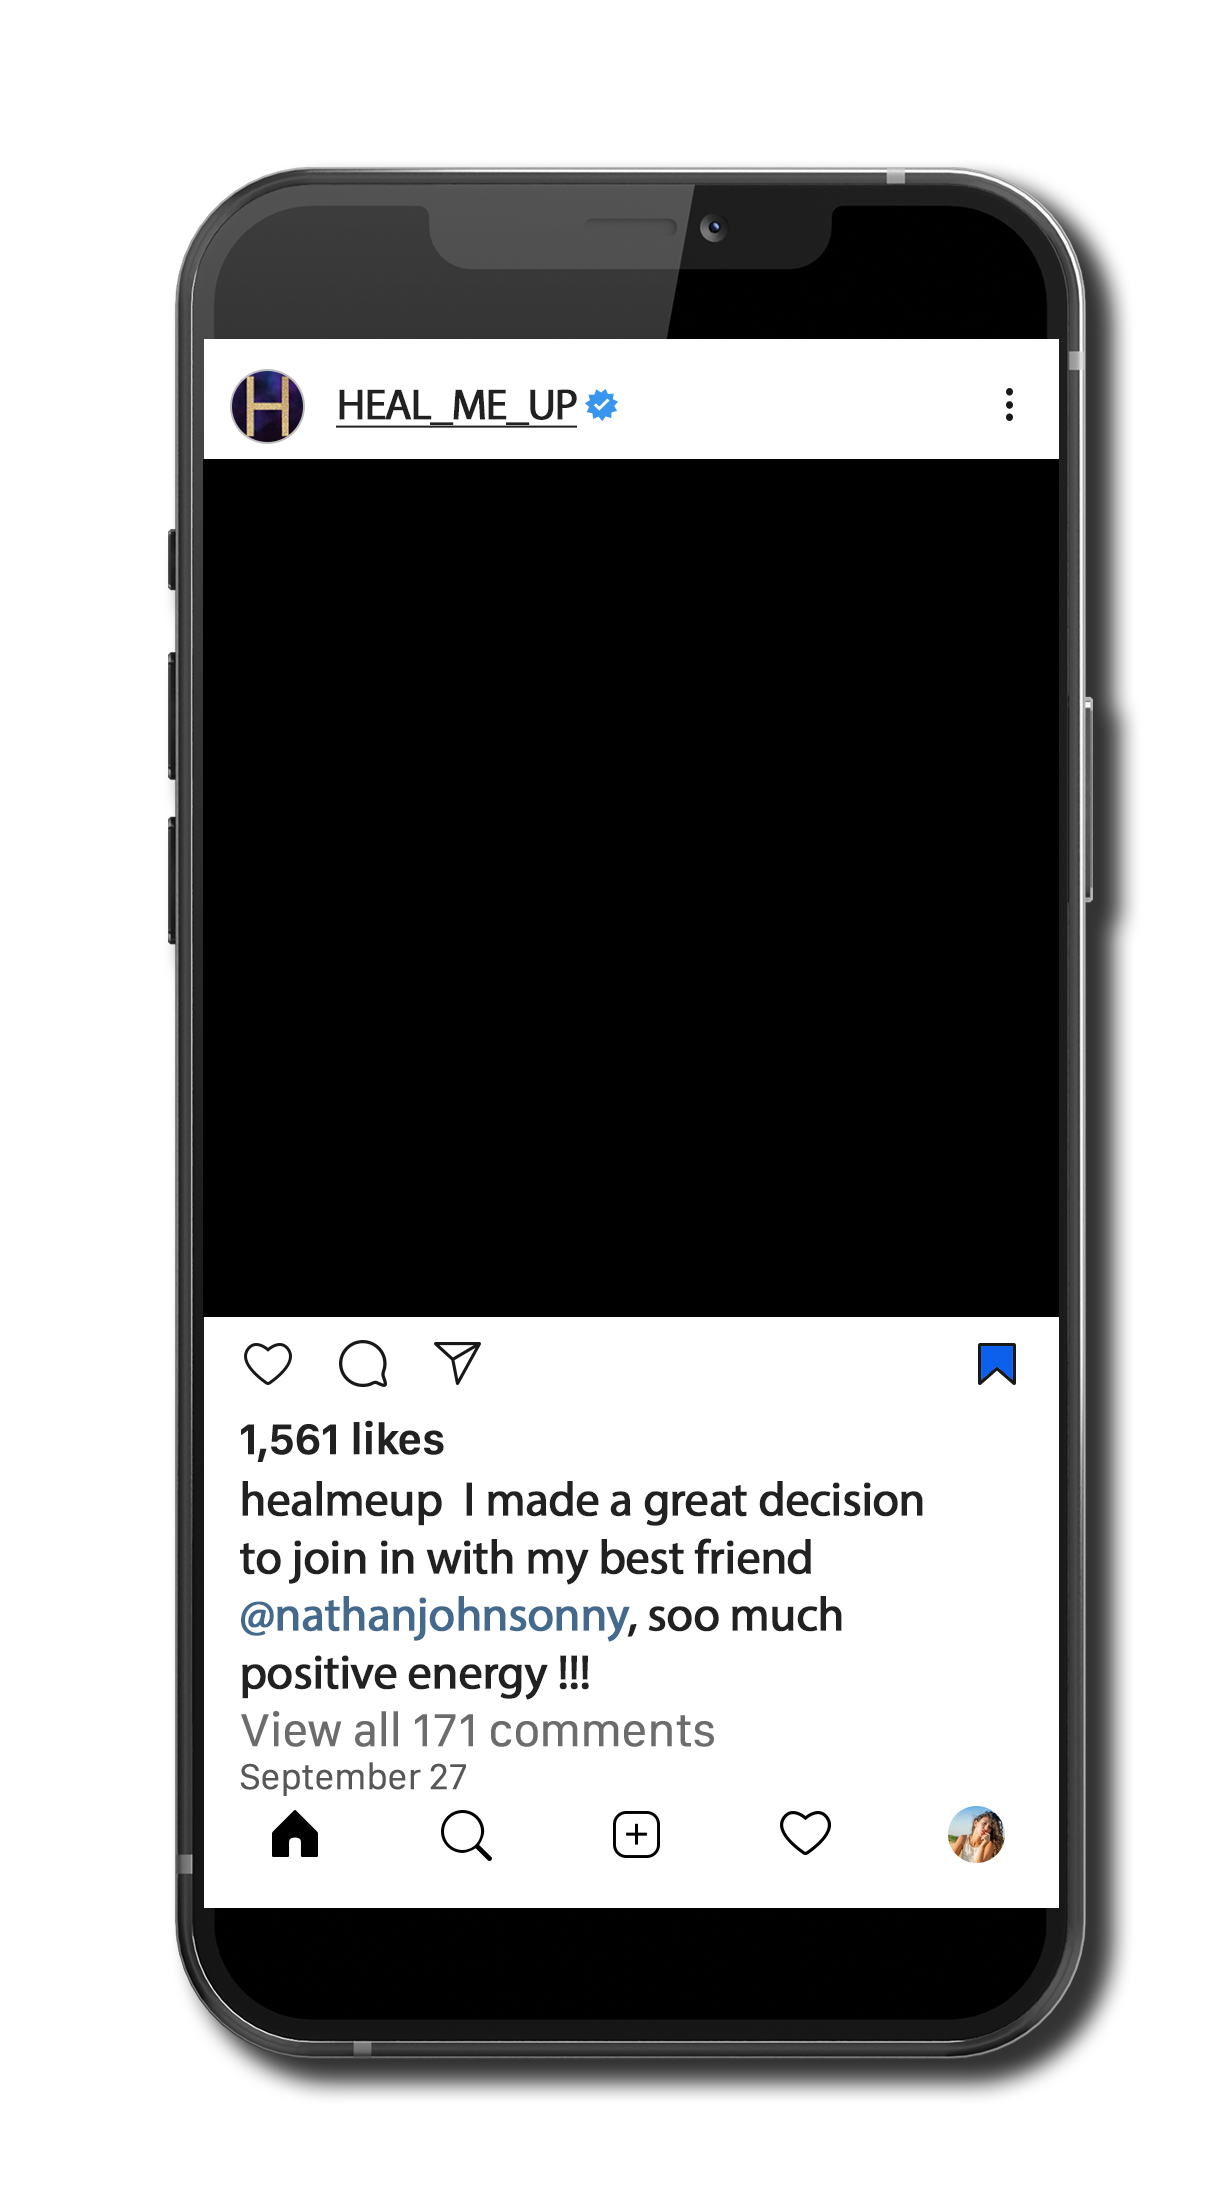
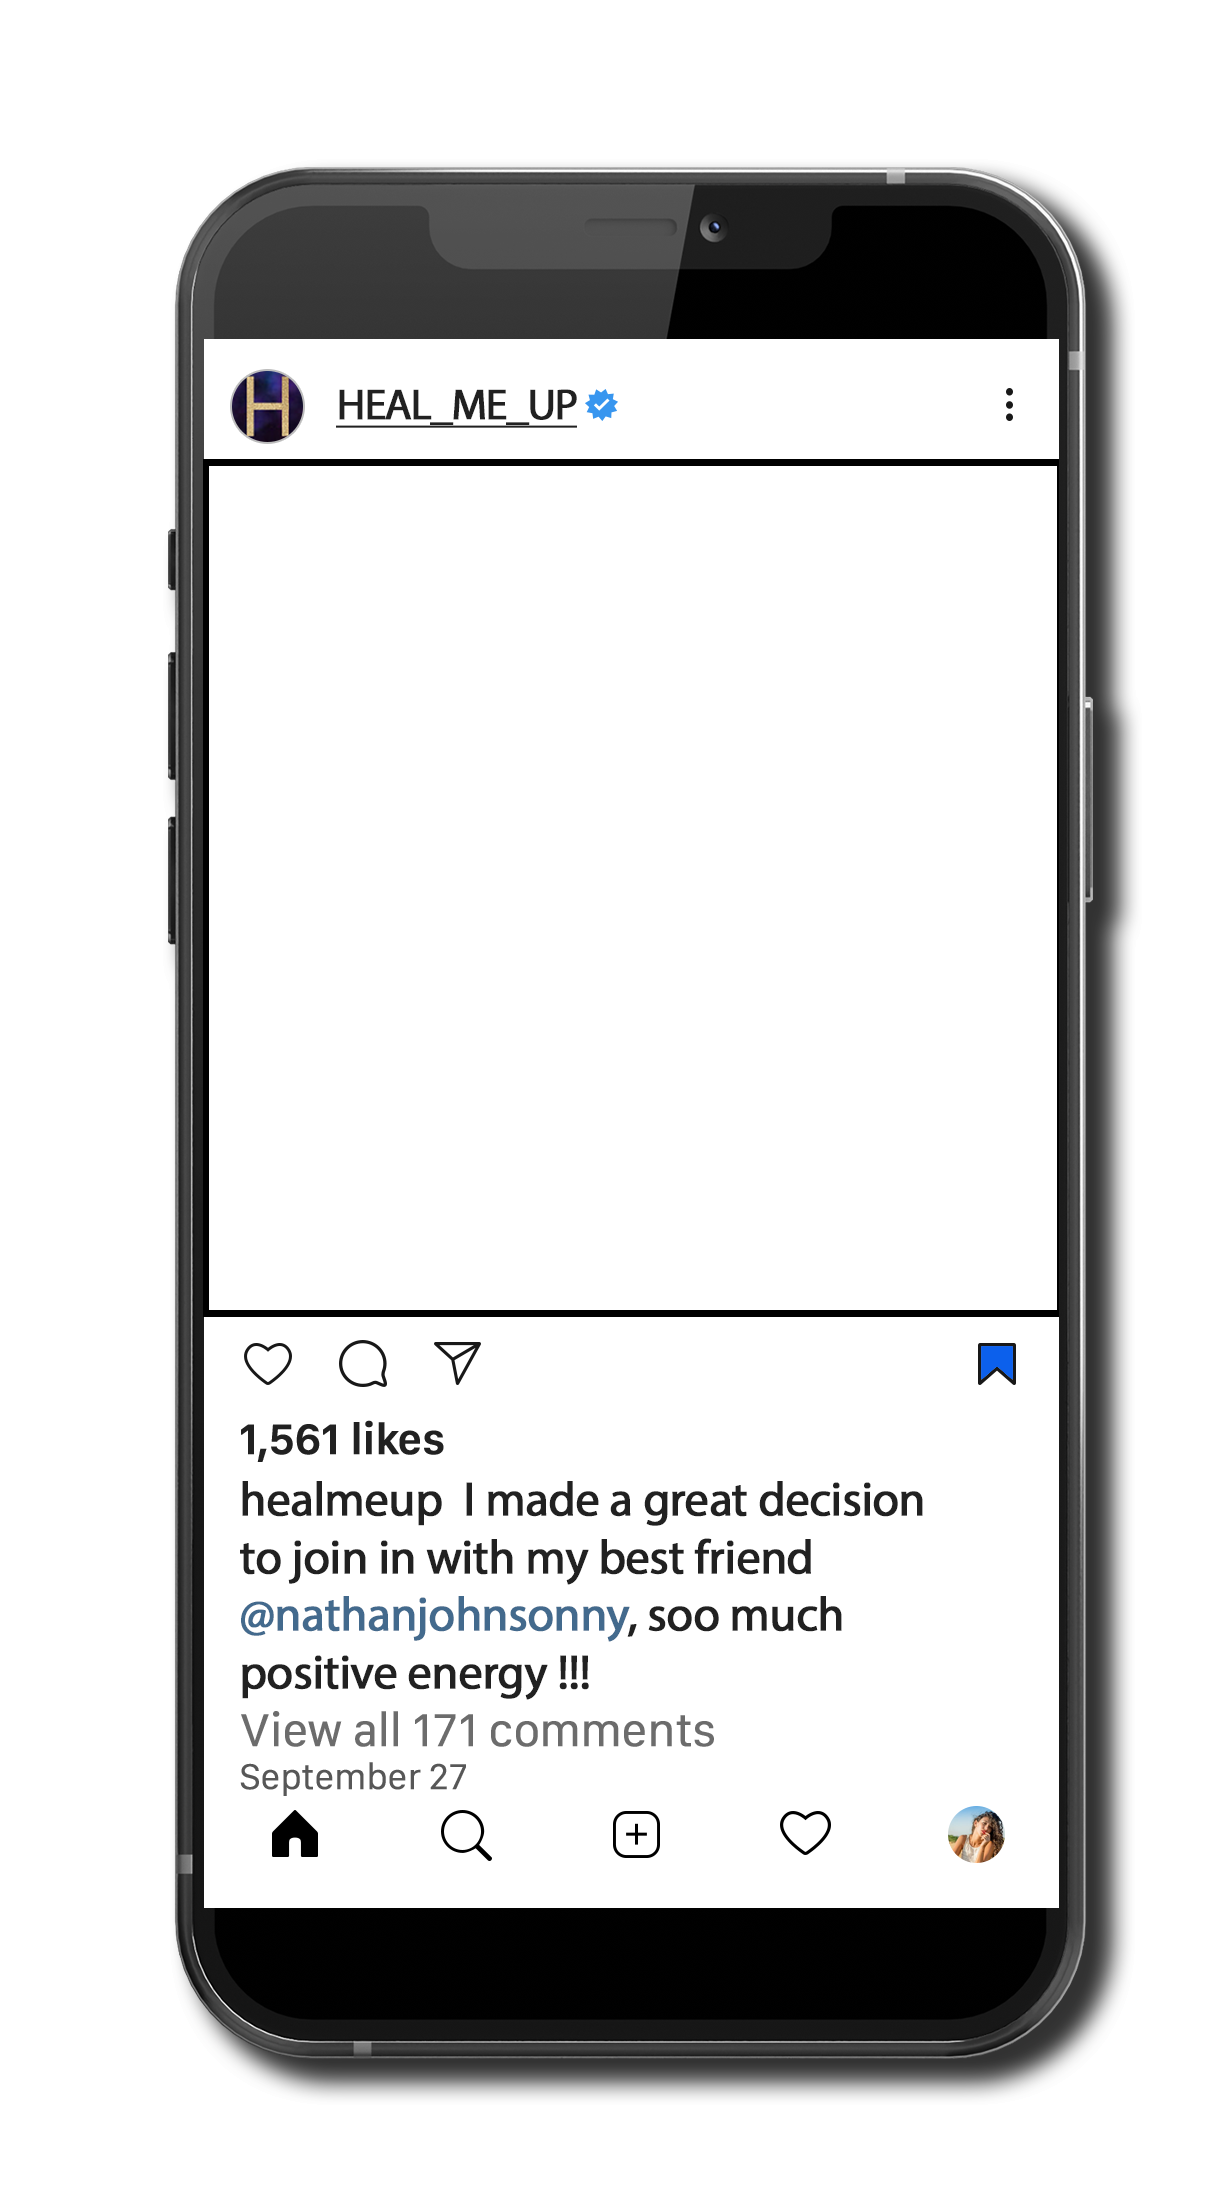
hmup_update

Changed region(s): [[0.1543, 0.1855, 0.8643, 0.6182]]

diff --git a/HMUP.html b/HMUP.html
@@ -13,10 +13,6 @@
 <meta name="authoring-tool" content="Adobe_Animate_CC">
 <title>HMUP</title>
 <!-- write your code here -->
-
-
-
-
 <style>
   #animation_container {
 	position:absolute;
@@ -108,7 +104,7 @@ if (reversed == null) { reversed = false; }
 	props.loop = loop;
 	props.reversed = reversed;
 	cjs.MovieClip.apply(this,[props]);
-	// Calque_1
+	// Calque_3
 	this.instance = new lib.phone_mockup();
 	this.instance.setTransform(-139.9,-250,0.2273,0.2273);
 	this.timeline.addTween(cjs.Tween.get(this.instance).wait(1));
@@ -179,7 +175,7 @@ if (reversed == null) { reversed = false; }
 	props.reversed = reversed;
 	cjs.MovieClip.apply(this,[props]);
 	// Calque_1
-	this.text = new cjs.Text("RETOUR", "bold 60px 'Myriad Pro'", "#FFFFFF");
+	this.text = new cjs.Text("RETOUR", "60px 'Arial'", "#FFFFFF");
 	this.text.lineHeight = 71;
 	this.text.lineWidth = 230;
 	this.text.parent = this;
@@ -187,7 +183,7 @@ if (reversed == null) { reversed = false; }
 	this.timeline.addTween(cjs.Tween.get(this.text).wait(1));
 	this._renderFirstFrame();
 }).prototype = p = new cjs.MovieClip();
-p.nominalBounds = new cjs.Rectangle(-117.2,-36.4,234.4,72.8);
+p.nominalBounds = new cjs.Rectangle(-117.2,-36.4,234.4,140);
 (lib.Interpoler3 = function(mode,startPosition,loop,reversed) {
 if (loop == null) { loop = true; }
 if (reversed == null) { reversed = false; }
@@ -199,7 +195,7 @@ if (reversed == null) { reversed = false; }
 	props.reversed = reversed;
 	cjs.MovieClip.apply(this,[props]);
 	// Calque_1
-	this.text = new cjs.Text("RETOUR", "bold 60px 'Myriad Pro'", "#FFFFFF");
+	this.text = new cjs.Text("RETOUR", "60px 'Arial'", "#FFFFFF");
 	this.text.lineHeight = 71;
 	this.text.lineWidth = 230;
 	this.text.parent = this;
@@ -207,7 +203,7 @@ if (reversed == null) { reversed = false; }
 	this.timeline.addTween(cjs.Tween.get(this.text).wait(1));
 	this._renderFirstFrame();
 }).prototype = p = new cjs.MovieClip();
-p.nominalBounds = new cjs.Rectangle(-117.2,-36.4,234.4,72.8);
+p.nominalBounds = new cjs.Rectangle(-117.2,-36.4,234.4,140);
 (lib.Interpoler2 = function(mode,startPosition,loop,reversed) {
 if (loop == null) { loop = true; }
 if (reversed == null) { reversed = false; }
@@ -687,7 +683,7 @@ if (reversed == null) { reversed = false; }
 	this.filterCacheList.push({instance: this.instance_4, startFrame:20, endFrame:39, x:-22, y:-22, w:44, h:44});
 	this._renderFirstFrame();
 }).prototype = p = new cjs.MovieClip();
-p.nominalBounds = new cjs.Rectangle(-397.3,-62.1,780.3,117.9);
+p.nominalBounds = new cjs.Rectangle(-397.3,-62.1,780.3,172);
 // stage content:
 (lib.PHMUP = function(mode,startPosition,loop,reversed) {
 if (loop == null) { loop = true; }
@@ -779,44 +775,6 @@ if (reversed == null) { reversed = false; }
 	this.timeline.addTween(cjs.Tween.get({}).to({state:[{t:this.nextButton},{t:this.prevButton}]}).wait(180));
 	this.prevButton.addEventListener("tick", AdobeAn.handleFilterCache);
 	this.nextButton.addEventListener("tick", AdobeAn.handleFilterCache);
-	// hmup_01
-	this.instance = new lib.hmup_01();
-	this.instance.setTransform(484,185.7,1.3008,1.2974);
-	this.timeline.addTween(cjs.Tween.get(this.instance).to({regX:0.2,scaleX:0.9216,scaleY:0.9192,x:157.55,y:185.35,alpha:0.5},29,cjs.Ease.quadInOut).to({scaleX:0.3861,scaleY:0.3851,x:117.6,alpha:0},30,cjs.Ease.quadInOut).to({_off:true},1).wait(120));
-	// hmup_02
-	this.instance_1 = new lib.hmup_02();
-	this.instance_1.setTransform(802.65,185.95,0.723,0.723);
-	this.instance_1.alpha = 0.5;
-	this.timeline.addTween(cjs.Tween.get(this.instance_1).to({scaleX:1,scaleY:1,x:484,y:185.7,alpha:1},29,cjs.Ease.quadInOut).to({scaleX:0.7109,scaleY:0.7109,x:157.6,y:185.75,alpha:0.5},30,cjs.Ease.quadInOut).to({regY:0.1,scaleX:0.2973,scaleY:0.2973,x:116.6,y:186.75,alpha:0},30,cjs.Ease.quadInOut).to({_off:true},1).wait(90));
-	// hmup_03
-	this.instance_2 = new lib.hmup_03();
-	this.instance_2.setTransform(844.15,185.5,0.2974,0.2974,0,0,0,0,0.1);
-	this.instance_2.alpha = 0;
-	this.timeline.addTween(cjs.Tween.get(this.instance_2).to({regX:0.1,regY:0.2,scaleX:0.7077,scaleY:0.7077,x:804.2,y:185.55,alpha:0.5},29,cjs.Ease.quadInOut).to({scaleX:1,scaleY:1,x:484.15,alpha:1},30,cjs.Ease.quadInOut).to({regY:0.3,scaleX:0.7077,scaleY:0.7077,x:156.65,y:186.5,alpha:0.5},30,cjs.Ease.quadInOut).to({regY:0.4,scaleX:0.2974,scaleY:0.2974,x:116.6,y:185.4,alpha:0},30,cjs.Ease.quadInOut).to({_off:true},1).wait(60));
-	// hmup_04
-	this.instance_3 = new lib.hmup_04();
-	this.instance_3.setTransform(844.15,185.75,0.2974,0.2974);
-	this.instance_3.alpha = 0;
-	this.instance_3._off = true;
-	this.timeline.addTween(cjs.Tween.get(this.instance_3).wait(29).to({_off:false},0).to({scaleX:0.7077,scaleY:0.7077,x:804.15,y:185.4,alpha:0.5},30,cjs.Ease.quadInOut).to({regX:0.1,regY:0.1,scaleX:1,scaleY:1,x:484.1,y:186.4,alpha:1},30,cjs.Ease.quadInOut).to({scaleX:0.7077,scaleY:0.7077,x:156.6,y:185.35,alpha:0.5},30,cjs.Ease.quadInOut).to({scaleX:0.2974,scaleY:0.2974,x:117.55,alpha:0},30,cjs.Ease.quadInOut).to({_off:true},1).wait(30));
-	// hmup_05
-	this.instance_4 = new lib.hmup_05();
-	this.instance_4.setTransform(844.2,185.3,0.2974,0.2974,0,0,0,0.1,0.1);
-	this.instance_4.alpha = 0;
-	this.instance_4._off = true;
-	this.timeline.addTween(cjs.Tween.get(this.instance_4).wait(59).to({_off:false},0).to({regX:0.2,regY:0.2,scaleX:0.7077,scaleY:0.7077,x:804.3,y:186.4,alpha:0.5},30,cjs.Ease.quadInOut).to({scaleX:0.9999,scaleY:0.9999,x:484.2,y:185.4,alpha:1},30,cjs.Ease.quadInOut).to({regX:0.3,regY:0.3,scaleX:0.7077,scaleY:0.7077,x:157.7,y:185.35,alpha:0.5},30,cjs.Ease.quadInOut).to({regX:0.5,regY:0.5,scaleX:0.2974,scaleY:0.2974,x:116.6,y:185.25,alpha:0},30,cjs.Ease.quadInOut).wait(1));
-	// hmup_06
-	this.instance_5 = new lib.hmup_06();
-	this.instance_5.setTransform(844.2,186.7,0.2974,0.2974,0,0,0,0.1,0);
-	this.instance_5.alpha = 0;
-	this.instance_5._off = true;
-	this.timeline.addTween(cjs.Tween.get(this.instance_5).wait(89).to({_off:false},0).to({regX:0.2,regY:0.1,scaleX:0.7077,scaleY:0.7077,x:804.3,y:185.35,alpha:0.5},30,cjs.Ease.quadInOut).to({scaleX:1,scaleY:1,x:484.2,y:185.4,alpha:1},30,cjs.Ease.quadInOut).to({regX:0.3,scaleX:0.7077,scaleY:0.7077,x:156.65,y:185.2,alpha:0.5},30,cjs.Ease.quadInOut).wait(1));
-	// hmup_07
-	this.instance_6 = new lib.hmup_07();
-	this.instance_6.setTransform(844.15,185.35,0.2974,0.2974,0,0,0,0,0.1);
-	this.instance_6.alpha = 0;
-	this.instance_6._off = true;
-	this.timeline.addTween(cjs.Tween.get(this.instance_6).wait(119).to({_off:false},0).to({regX:0.1,regY:0.2,scaleX:0.7077,scaleY:0.7077,x:804.2,y:185.3,alpha:0.5},30,cjs.Ease.quadInOut).to({scaleX:1,scaleY:1,x:484.1,alpha:1},30,cjs.Ease.quadInOut).wait(1));
 	// back_btn_anim
 	this.back_btn_anim = new lib.back_btn_anim();
 	this.back_btn_anim.name = "back_btn_anim";
@@ -824,9 +782,52 @@ if (reversed == null) { reversed = false; }
 	this.timeline.addTween(cjs.Tween.get(this.back_btn_anim).wait(180));
 	this.back_btn_anim.addEventListener("tick", AdobeAn.handleFilterCache);
 	// phone_mockup
-	this.instance_7 = new lib.phone_mockup_1();
-	this.instance_7.setTransform(480,234);
-	this.timeline.addTween(cjs.Tween.get(this.instance_7).wait(180));
+	this.instance = new lib.phone_mockup_1();
+	this.instance.setTransform(480,234);
+	this.timeline.addTween(cjs.Tween.get(this.instance).wait(180));
+	// hmup_01
+	this.instance_1 = new lib.hmup_01();
+	this.instance_1.setTransform(484,185.7,1.3008,1.2974);
+	this.timeline.addTween(cjs.Tween.get(this.instance_1).to({regX:0.2,scaleX:0.9216,scaleY:0.9192,x:157.55,y:185.35,alpha:0.5},29,cjs.Ease.quadInOut).to({scaleX:0.3861,scaleY:0.3851,x:117.6,alpha:0},30,cjs.Ease.quadInOut).to({_off:true},1).wait(120));
+	// hmup_02
+	this.instance_2 = new lib.hmup_02();
+	this.instance_2.setTransform(802.65,185.95,0.723,0.723);
+	this.instance_2.alpha = 0.5;
+	this.timeline.addTween(cjs.Tween.get(this.instance_2).to({scaleX:1,scaleY:1,x:484,y:185.7,alpha:1},29,cjs.Ease.quadInOut).to({scaleX:0.7109,scaleY:0.7109,x:157.6,y:185.75,alpha:0.5},30,cjs.Ease.quadInOut).to({regY:0.1,scaleX:0.2973,scaleY:0.2973,x:116.6,y:186.75,alpha:0},30,cjs.Ease.quadInOut).to({_off:true},1).wait(90));
+	// hmup_03
+	this.instance_3 = new lib.hmup_03();
+	this.instance_3.setTransform(844.15,185.5,0.2974,0.2974,0,0,0,0,0.1);
+	this.instance_3.alpha = 0;
+	this.timeline.addTween(cjs.Tween.get(this.instance_3).to({regX:0.1,regY:0.2,scaleX:0.7077,scaleY:0.7077,x:804.2,y:185.55,alpha:0.5},29,cjs.Ease.quadInOut).to({scaleX:1,scaleY:1,x:484.15,alpha:1},30,cjs.Ease.quadInOut).to({regY:0.3,scaleX:0.7077,scaleY:0.7077,x:156.65,y:186.5,alpha:0.5},30,cjs.Ease.quadInOut).to({regY:0.4,scaleX:0.2974,scaleY:0.2974,x:116.6,y:185.4,alpha:0},30,cjs.Ease.quadInOut).to({_off:true},1).wait(60));
+	// hmup_04
+	this.instance_4 = new lib.hmup_04();
+	this.instance_4.setTransform(844.15,185.75,0.2974,0.2974);
+	this.instance_4.alpha = 0;
+	this.instance_4._off = true;
+	this.timeline.addTween(cjs.Tween.get(this.instance_4).wait(29).to({_off:false},0).to({scaleX:0.7077,scaleY:0.7077,x:804.15,y:185.4,alpha:0.5},30,cjs.Ease.quadInOut).to({regX:0.1,regY:0.1,scaleX:1,scaleY:1,x:484.1,y:186.4,alpha:1},30,cjs.Ease.quadInOut).to({scaleX:0.7077,scaleY:0.7077,x:156.6,y:185.35,alpha:0.5},30,cjs.Ease.quadInOut).to({scaleX:0.2974,scaleY:0.2974,x:117.55,alpha:0},30,cjs.Ease.quadInOut).to({_off:true},1).wait(30));
+	// hmup_05
+	this.instance_5 = new lib.hmup_05();
+	this.instance_5.setTransform(844.2,185.3,0.2974,0.2974,0,0,0,0.1,0.1);
+	this.instance_5.alpha = 0;
+	this.instance_5._off = true;
+	this.timeline.addTween(cjs.Tween.get(this.instance_5).wait(59).to({_off:false},0).to({regX:0.2,regY:0.2,scaleX:0.7077,scaleY:0.7077,x:804.3,y:186.4,alpha:0.5},30,cjs.Ease.quadInOut).to({scaleX:0.9999,scaleY:0.9999,x:484.2,y:185.4,alpha:1},30,cjs.Ease.quadInOut).to({regX:0.3,regY:0.3,scaleX:0.7077,scaleY:0.7077,x:157.7,y:185.35,alpha:0.5},30,cjs.Ease.quadInOut).to({regX:0.5,regY:0.5,scaleX:0.2974,scaleY:0.2974,x:116.6,y:185.25,alpha:0},30,cjs.Ease.quadInOut).wait(1));
+	// hmup_06
+	this.instance_6 = new lib.hmup_06();
+	this.instance_6.setTransform(844.2,186.7,0.2974,0.2974,0,0,0,0.1,0);
+	this.instance_6.alpha = 0;
+	this.instance_6._off = true;
+	this.timeline.addTween(cjs.Tween.get(this.instance_6).wait(89).to({_off:false},0).to({regX:0.2,regY:0.1,scaleX:0.7077,scaleY:0.7077,x:804.3,y:185.35,alpha:0.5},30,cjs.Ease.quadInOut).to({scaleX:1,scaleY:1,x:484.2,y:185.4,alpha:1},30,cjs.Ease.quadInOut).to({regX:0.3,scaleX:0.7077,scaleY:0.7077,x:156.65,y:185.2,alpha:0.5},30,cjs.Ease.quadInOut).wait(1));
+	// hmup_07
+	this.instance_7 = new lib.hmup_07();
+	this.instance_7.setTransform(844.15,185.35,0.2974,0.2974,0,0,0,0,0.1);
+	this.instance_7.alpha = 0;
+	this.instance_7._off = true;
+	this.timeline.addTween(cjs.Tween.get(this.instance_7).wait(119).to({_off:false},0).to({regX:0.1,regY:0.2,scaleX:0.7077,scaleY:0.7077,x:804.2,y:185.3,alpha:0.5},30,cjs.Ease.quadInOut).to({scaleX:1,scaleY:1,x:484.1,alpha:1},30,cjs.Ease.quadInOut).wait(1));
+	// phone_mock_bg
+	this.shape = new cjs.Shape();
+	this.shape.graphics.f("#000000").s().p("AvOP8IAA/3IedAAIAAf3g");
+	this.shape.setTransform(483.5,186);
+	this.timeline.addTween(cjs.Tween.get(this.shape).wait(180));
 	// bg
 	this.instance_8 = new lib.hmup_bg_anim();
 	this.instance_8.setTransform(574,304.2,1,1,0,0,0,580,326.2);
@@ -1001,7 +1002,6 @@ function handleComplete(evt,comp) {
 }
 </script>
 <!-- write your code here -->
-
 
 <div class="book">
 	<div class="book__pg-shadow"></div>
@@ -1287,8 +1287,6 @@ body {
 }
 
 </style>
-
-
 
 </head>
 <body onload="init();" style="margin:0px;">
